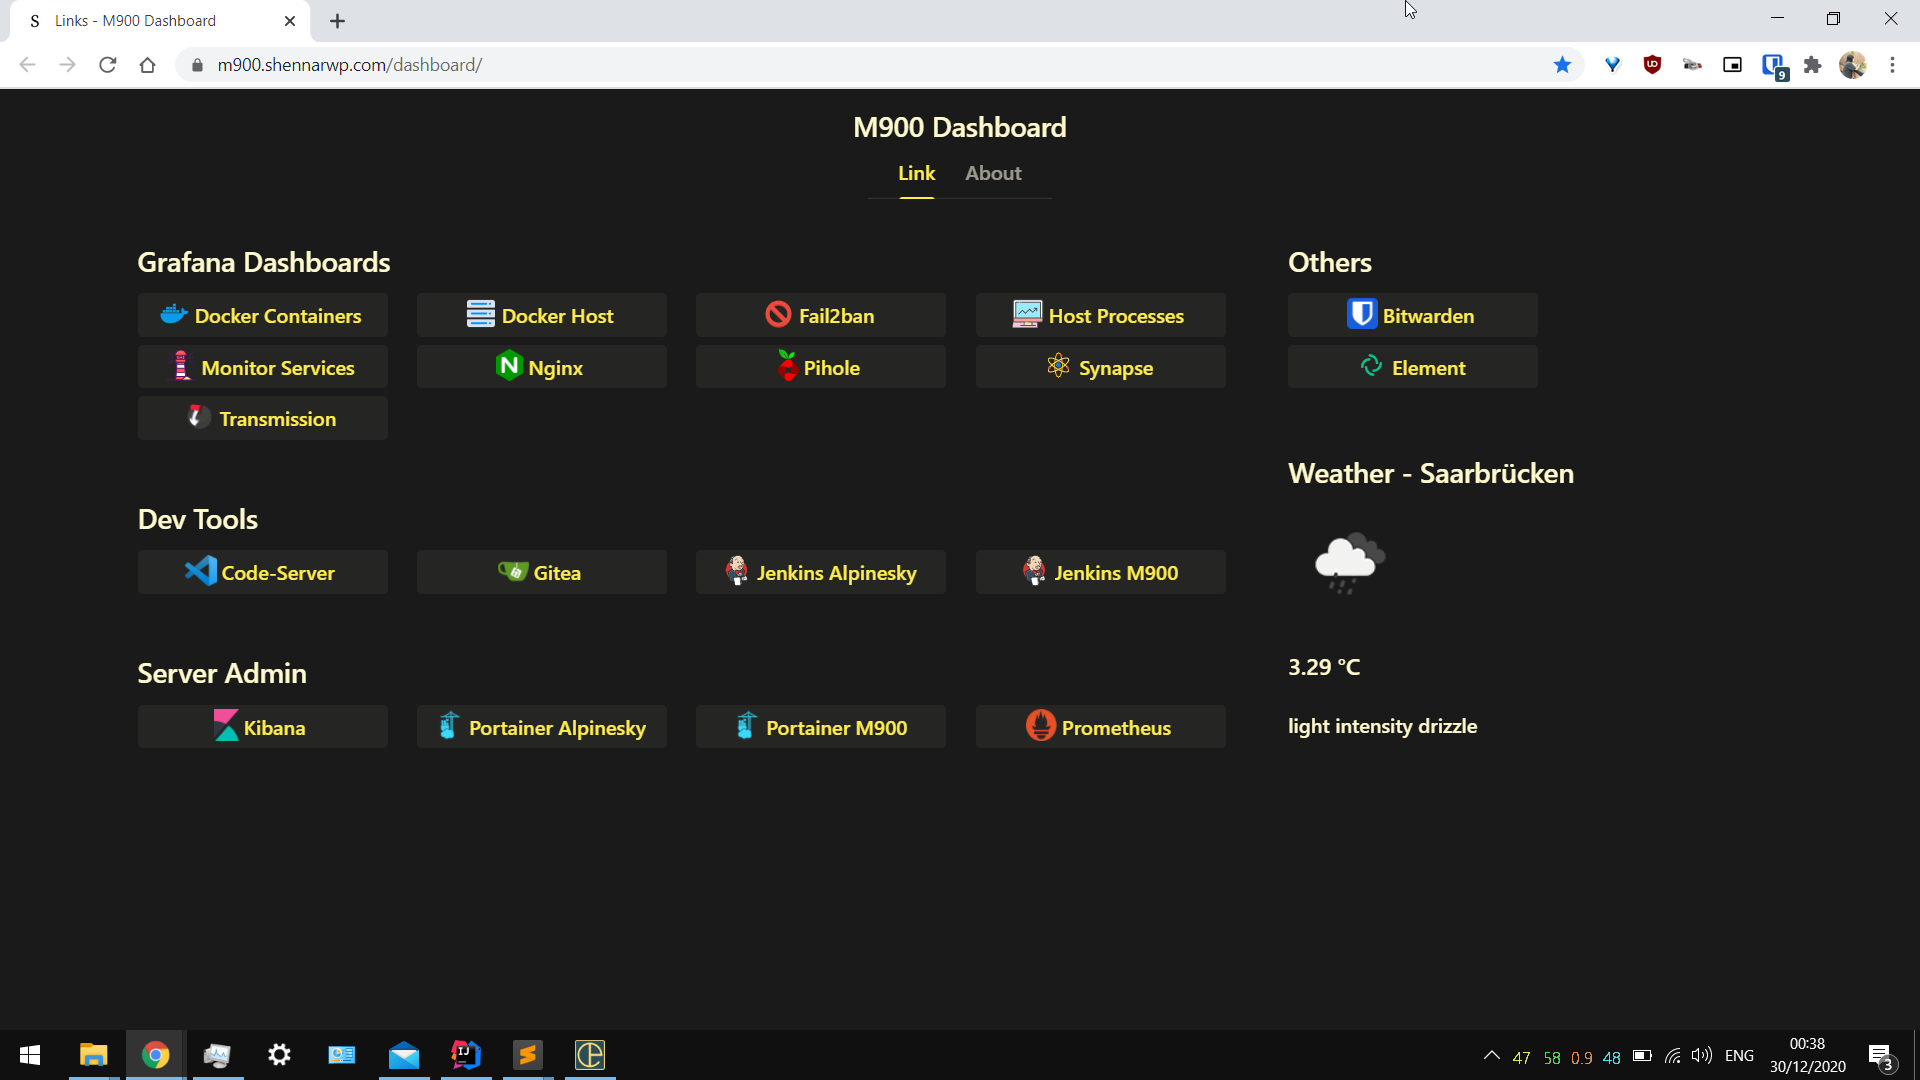
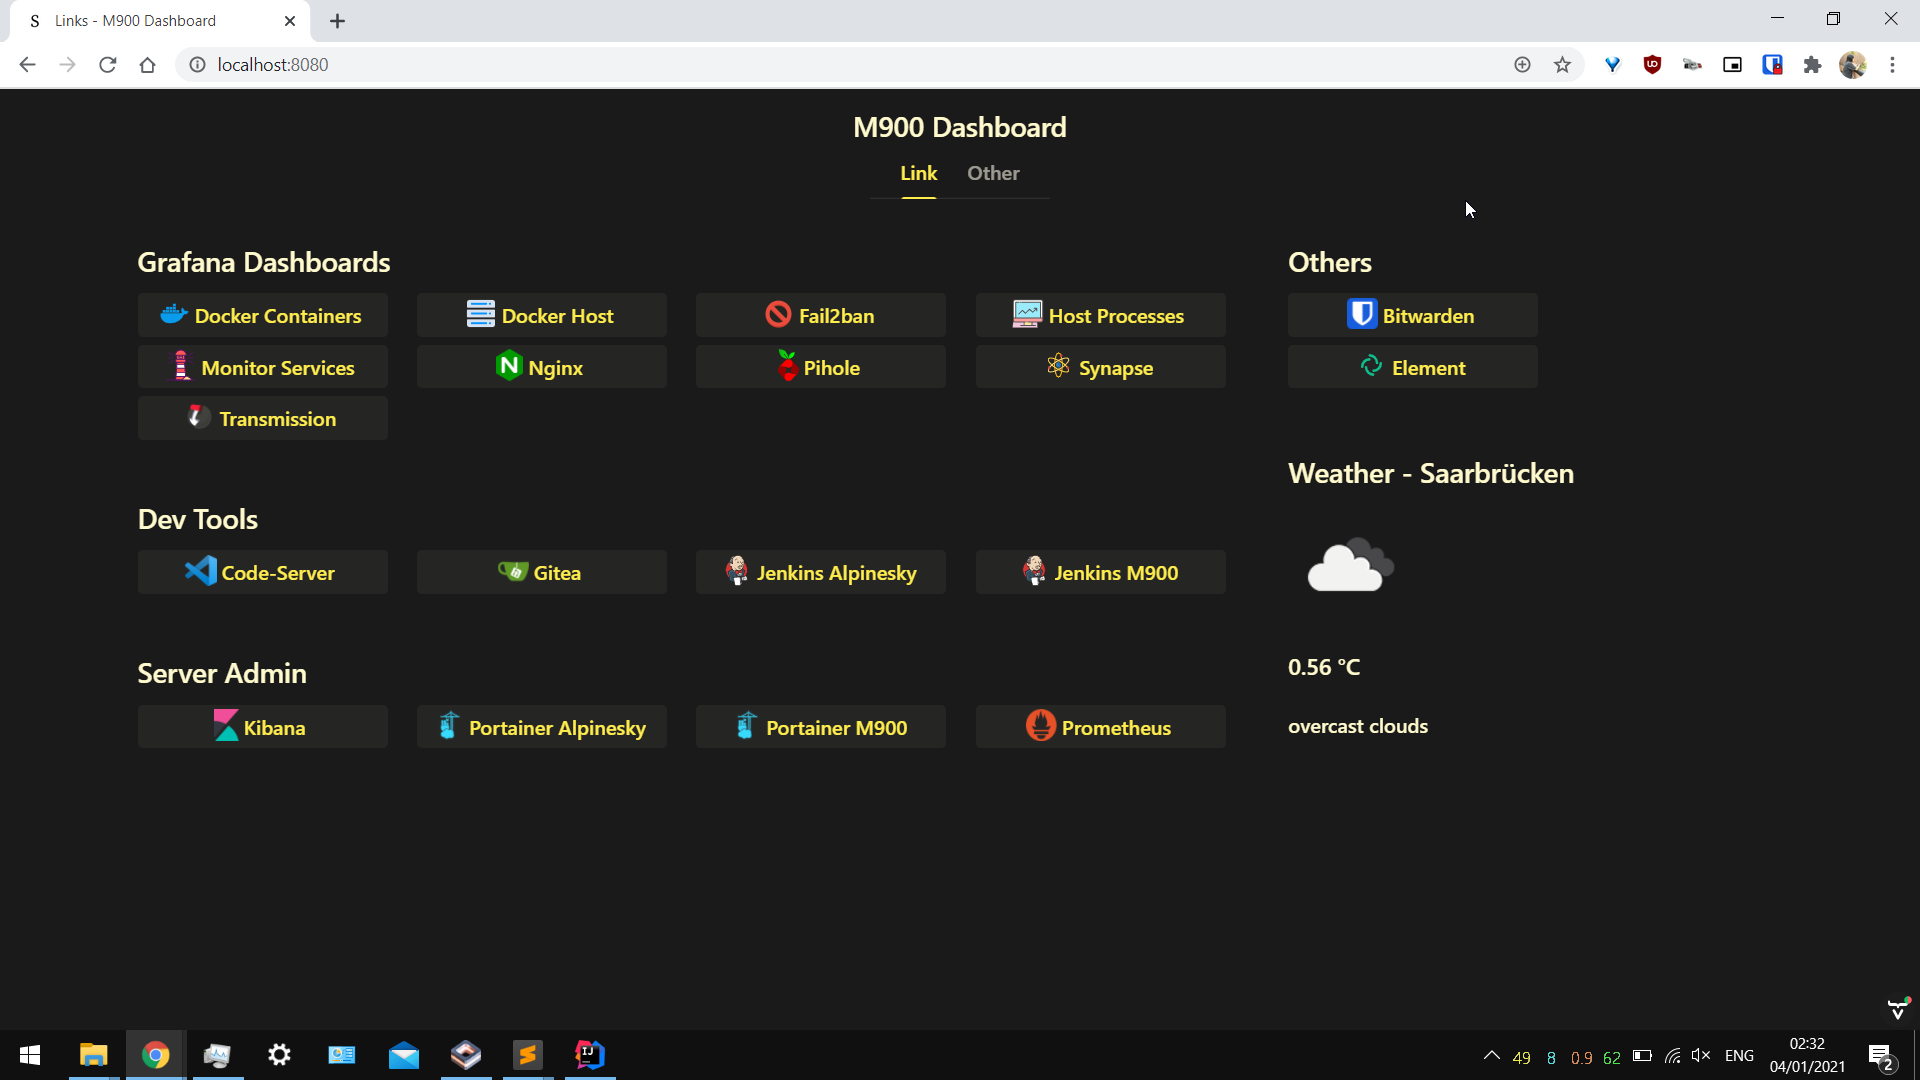
first initial design of "OtherView" where new bookmark can be added

diff --git a/frontend/styles/views/other-view.css b/frontend/styles/views/other-view.css
@@ -1,0 +1,13 @@
+.otherview {
+    max-width: 100%;
+    margin-left: 50px;
+    margin-right: 50px;
+
+    display: flex;
+    flex-wrap: wrap;
+    justify-content: space-evenly;
+}
+
+.otherview-urlbox {
+    flex-grow: 0.90;
+}

diff --git a/src/main/java/com/shennarwp/m900/views/other/OtherView.java b/src/main/java/com/shennarwp/m900/views/other/OtherView.java
@@ -1,0 +1,59 @@
+package com.shennarwp.m900.views.other;
+
+import com.shennarwp.m900.data.service.LinkService;
+import com.shennarwp.m900.views.main.MainView;
+import com.vaadin.flow.component.button.Button;
+import com.vaadin.flow.component.dependency.CssImport;
+import com.vaadin.flow.component.html.H3;
+import com.vaadin.flow.component.orderedlayout.HorizontalLayout;
+import com.vaadin.flow.component.textfield.TextField;
+import com.vaadin.flow.router.PageTitle;
+import com.vaadin.flow.router.Route;
+import org.springframework.beans.factory.annotation.Autowired;
+
+import javax.annotation.PostConstruct;
+
+@Route(value = "other", layout = MainView.class)
+@PageTitle("Other Bookmarks")
+@CssImport("./styles/views/other-view.css")
+public class OtherView extends HorizontalLayout {
+
+    private final LinkService linkService;
+
+    /** constructor, injected by spring */
+    @Autowired
+    public OtherView(LinkService linkService) {
+        this.linkService = linkService;
+    }
+
+    @PostConstruct
+    public void init() {
+        setId("otherview");
+        setClassName("otherview");
+
+        H3 caption = new H3("Add new bookmark:");
+        caption.setWidthFull();
+        add(caption);
+
+
+        TextField titleField = new TextField();
+        titleField.setLabel("Title");
+        TextField categoryField = new TextField();
+        categoryField.setLabel("Category");
+
+        TextField urlField = new TextField();
+        urlField.setLabel("URL");
+        urlField.setClassName("otherview-urlbox");
+
+        Button saveButton = new Button("Save");
+        saveButton.setHeight("35px");
+        saveButton.setWidth("85px");
+
+
+        add(titleField, categoryField, urlField, saveButton);
+        setVerticalComponentAlignment(Alignment.END, saveButton);
+
+
+    }
+
+}

diff --git a/src/main/java/com/shennarwp/m900/views/main/MainView.java b/src/main/java/com/shennarwp/m900/views/main/MainView.java
@@ -1,7 +1,7 @@
 package com.shennarwp.m900.views.main;
 
-import com.shennarwp.m900.views.about.AboutView;
 import com.shennarwp.m900.views.link.LinkView;
+import com.shennarwp.m900.views.other.OtherView;
 import com.vaadin.flow.component.Component;
 import com.vaadin.flow.component.ComponentUtil;
 import com.vaadin.flow.component.applayout.AppLayout;
@@ -67,7 +67,7 @@ public class MainView extends AppLayout {
     }
 
     private static Tab[] getAvailableTabs() {
-        return new Tab[]{createTab("Link", LinkView.class), createTab("About", AboutView.class)};
+        return new Tab[]{createTab("Link", LinkView.class), createTab("Other", OtherView.class)};
     }
 
     private static Tab createTab(String text, Class<? extends Component> navigationTarget) {

diff --git a/README.md b/README.md
@@ -6,6 +6,6 @@ written in Java using [Vaadin](https://vaadin.com/) and [SpringBoot](https://spr
 The site can be seen [here](https://m900.shennarwp.com/dashboard/).
 
 Current progress:
-![ss_desktop](./screenshot/ss_dt.png)
+![ss_desktop](./screenshot/ss_dt.png) ![ss_desktop1](./screenshot/ss_dt1.png)
 
 ![ss_phone](./screenshot/ss_ph.jpg) ![ss_phone1](./screenshot/ss_ph1.jpg)
